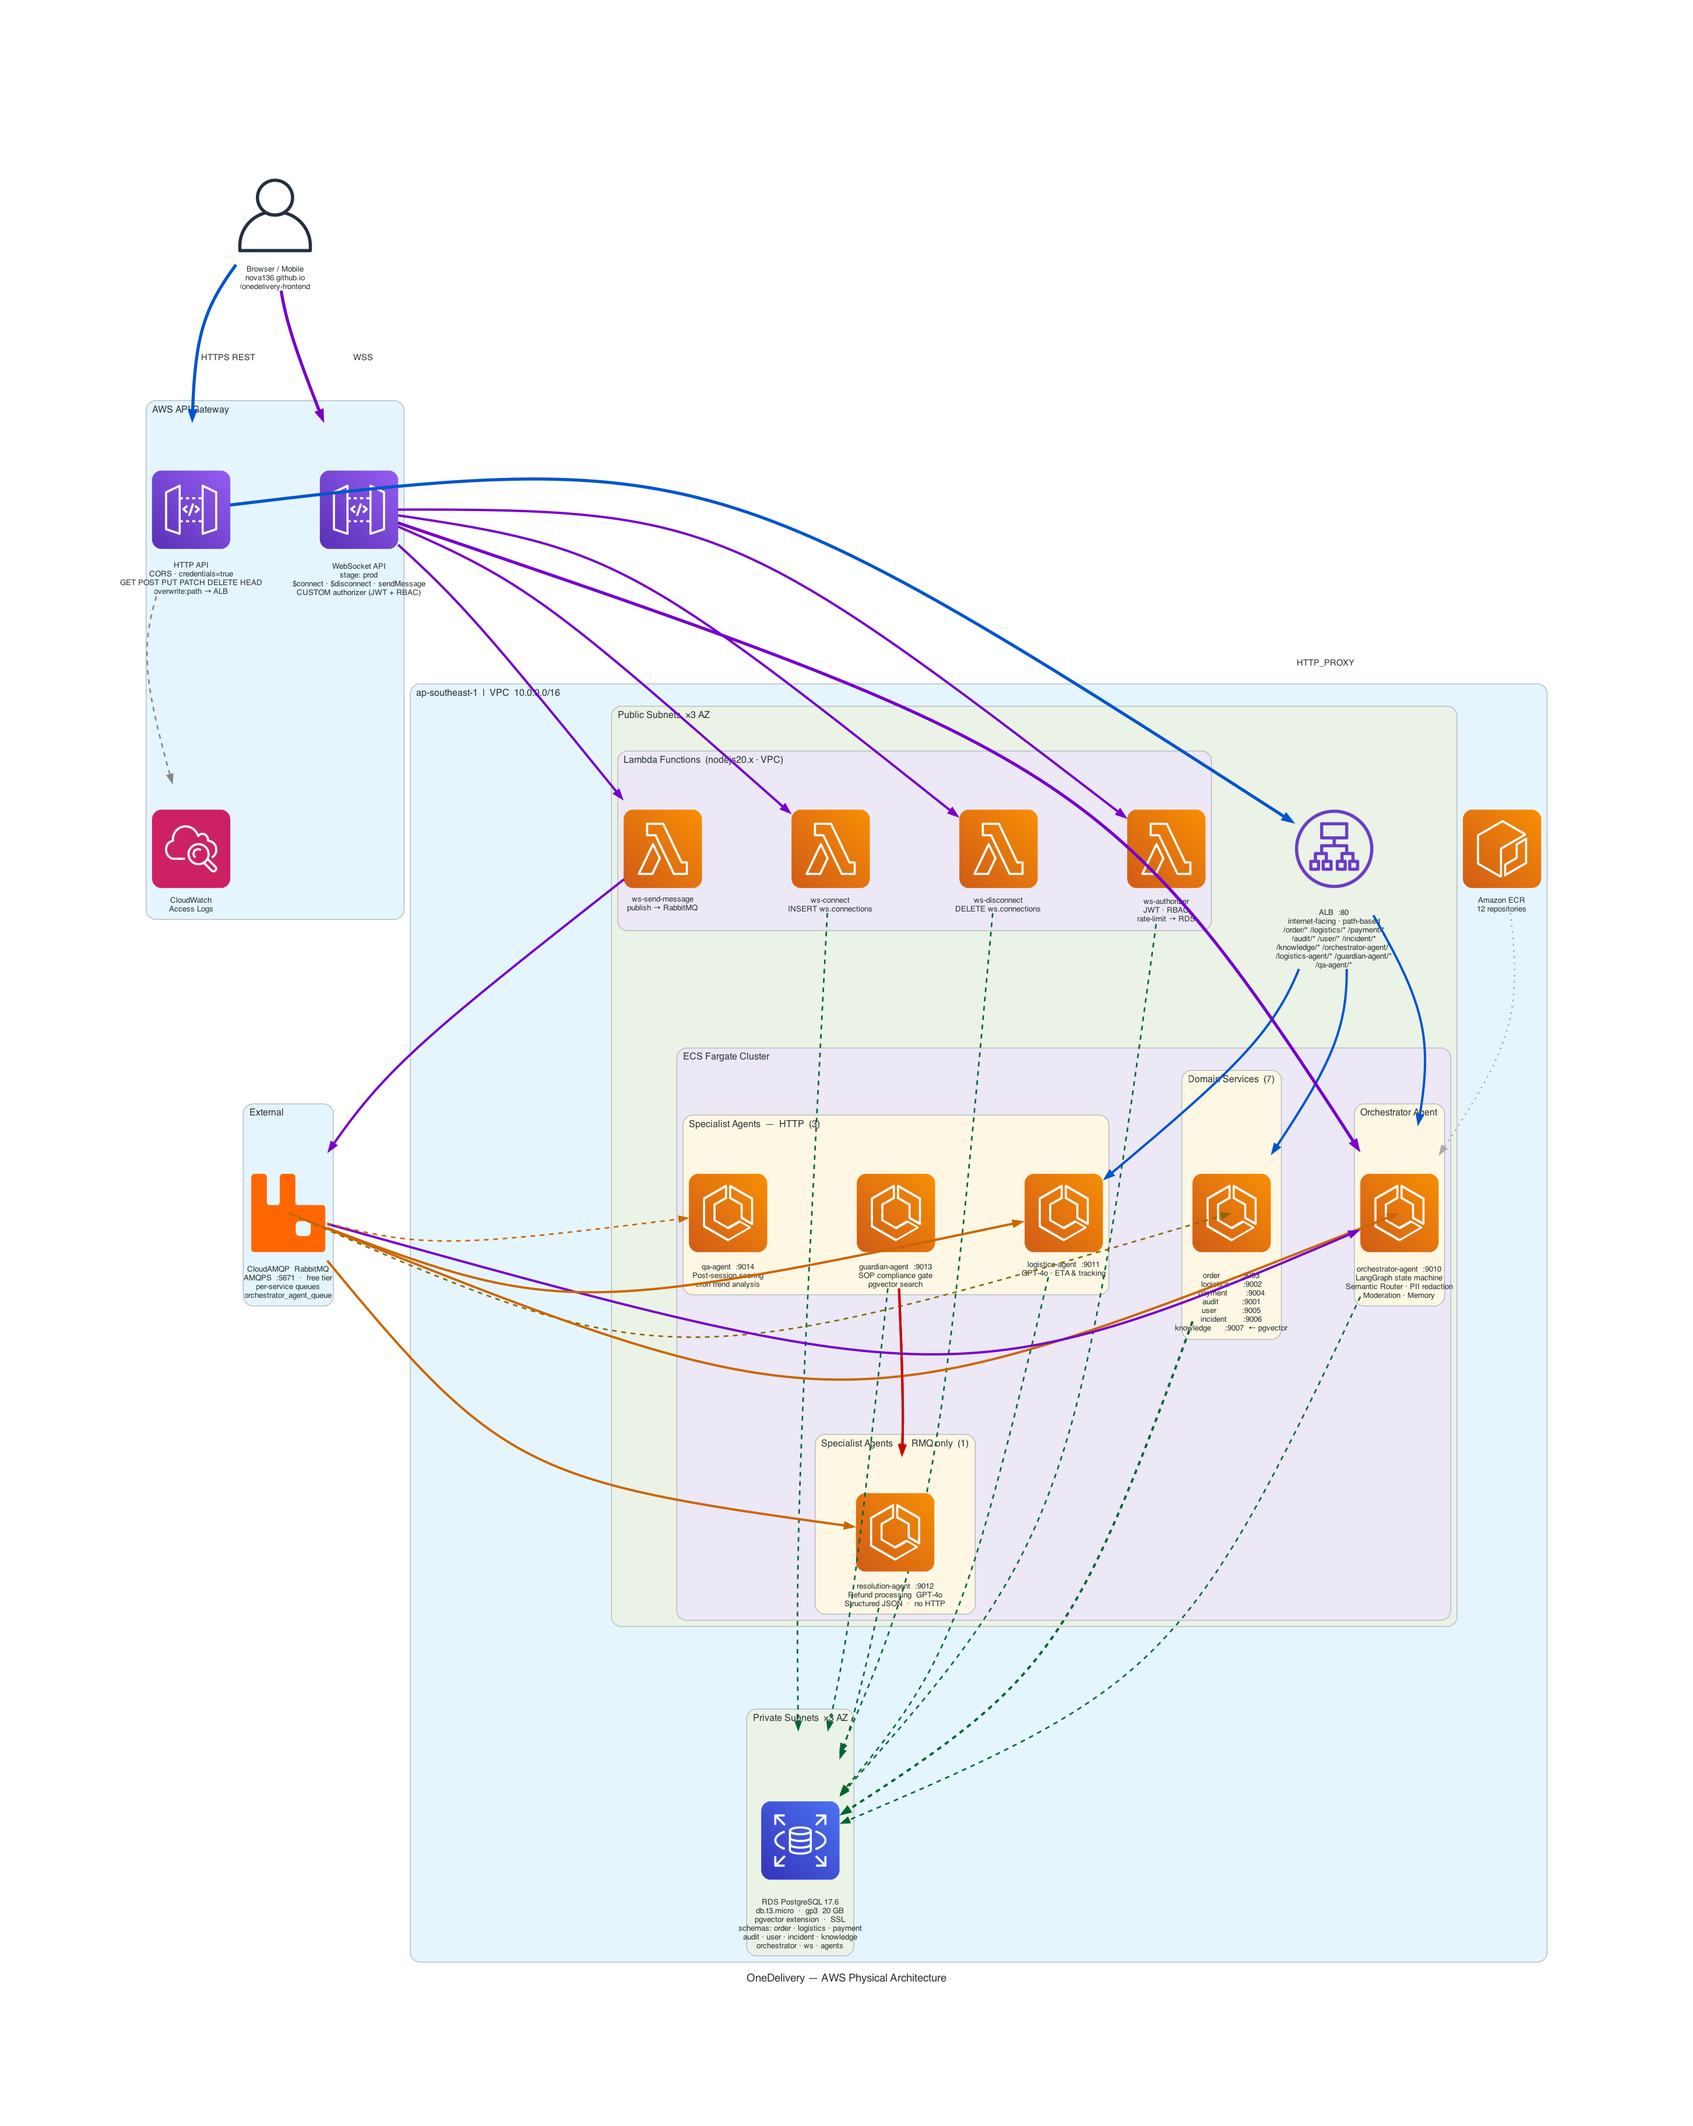
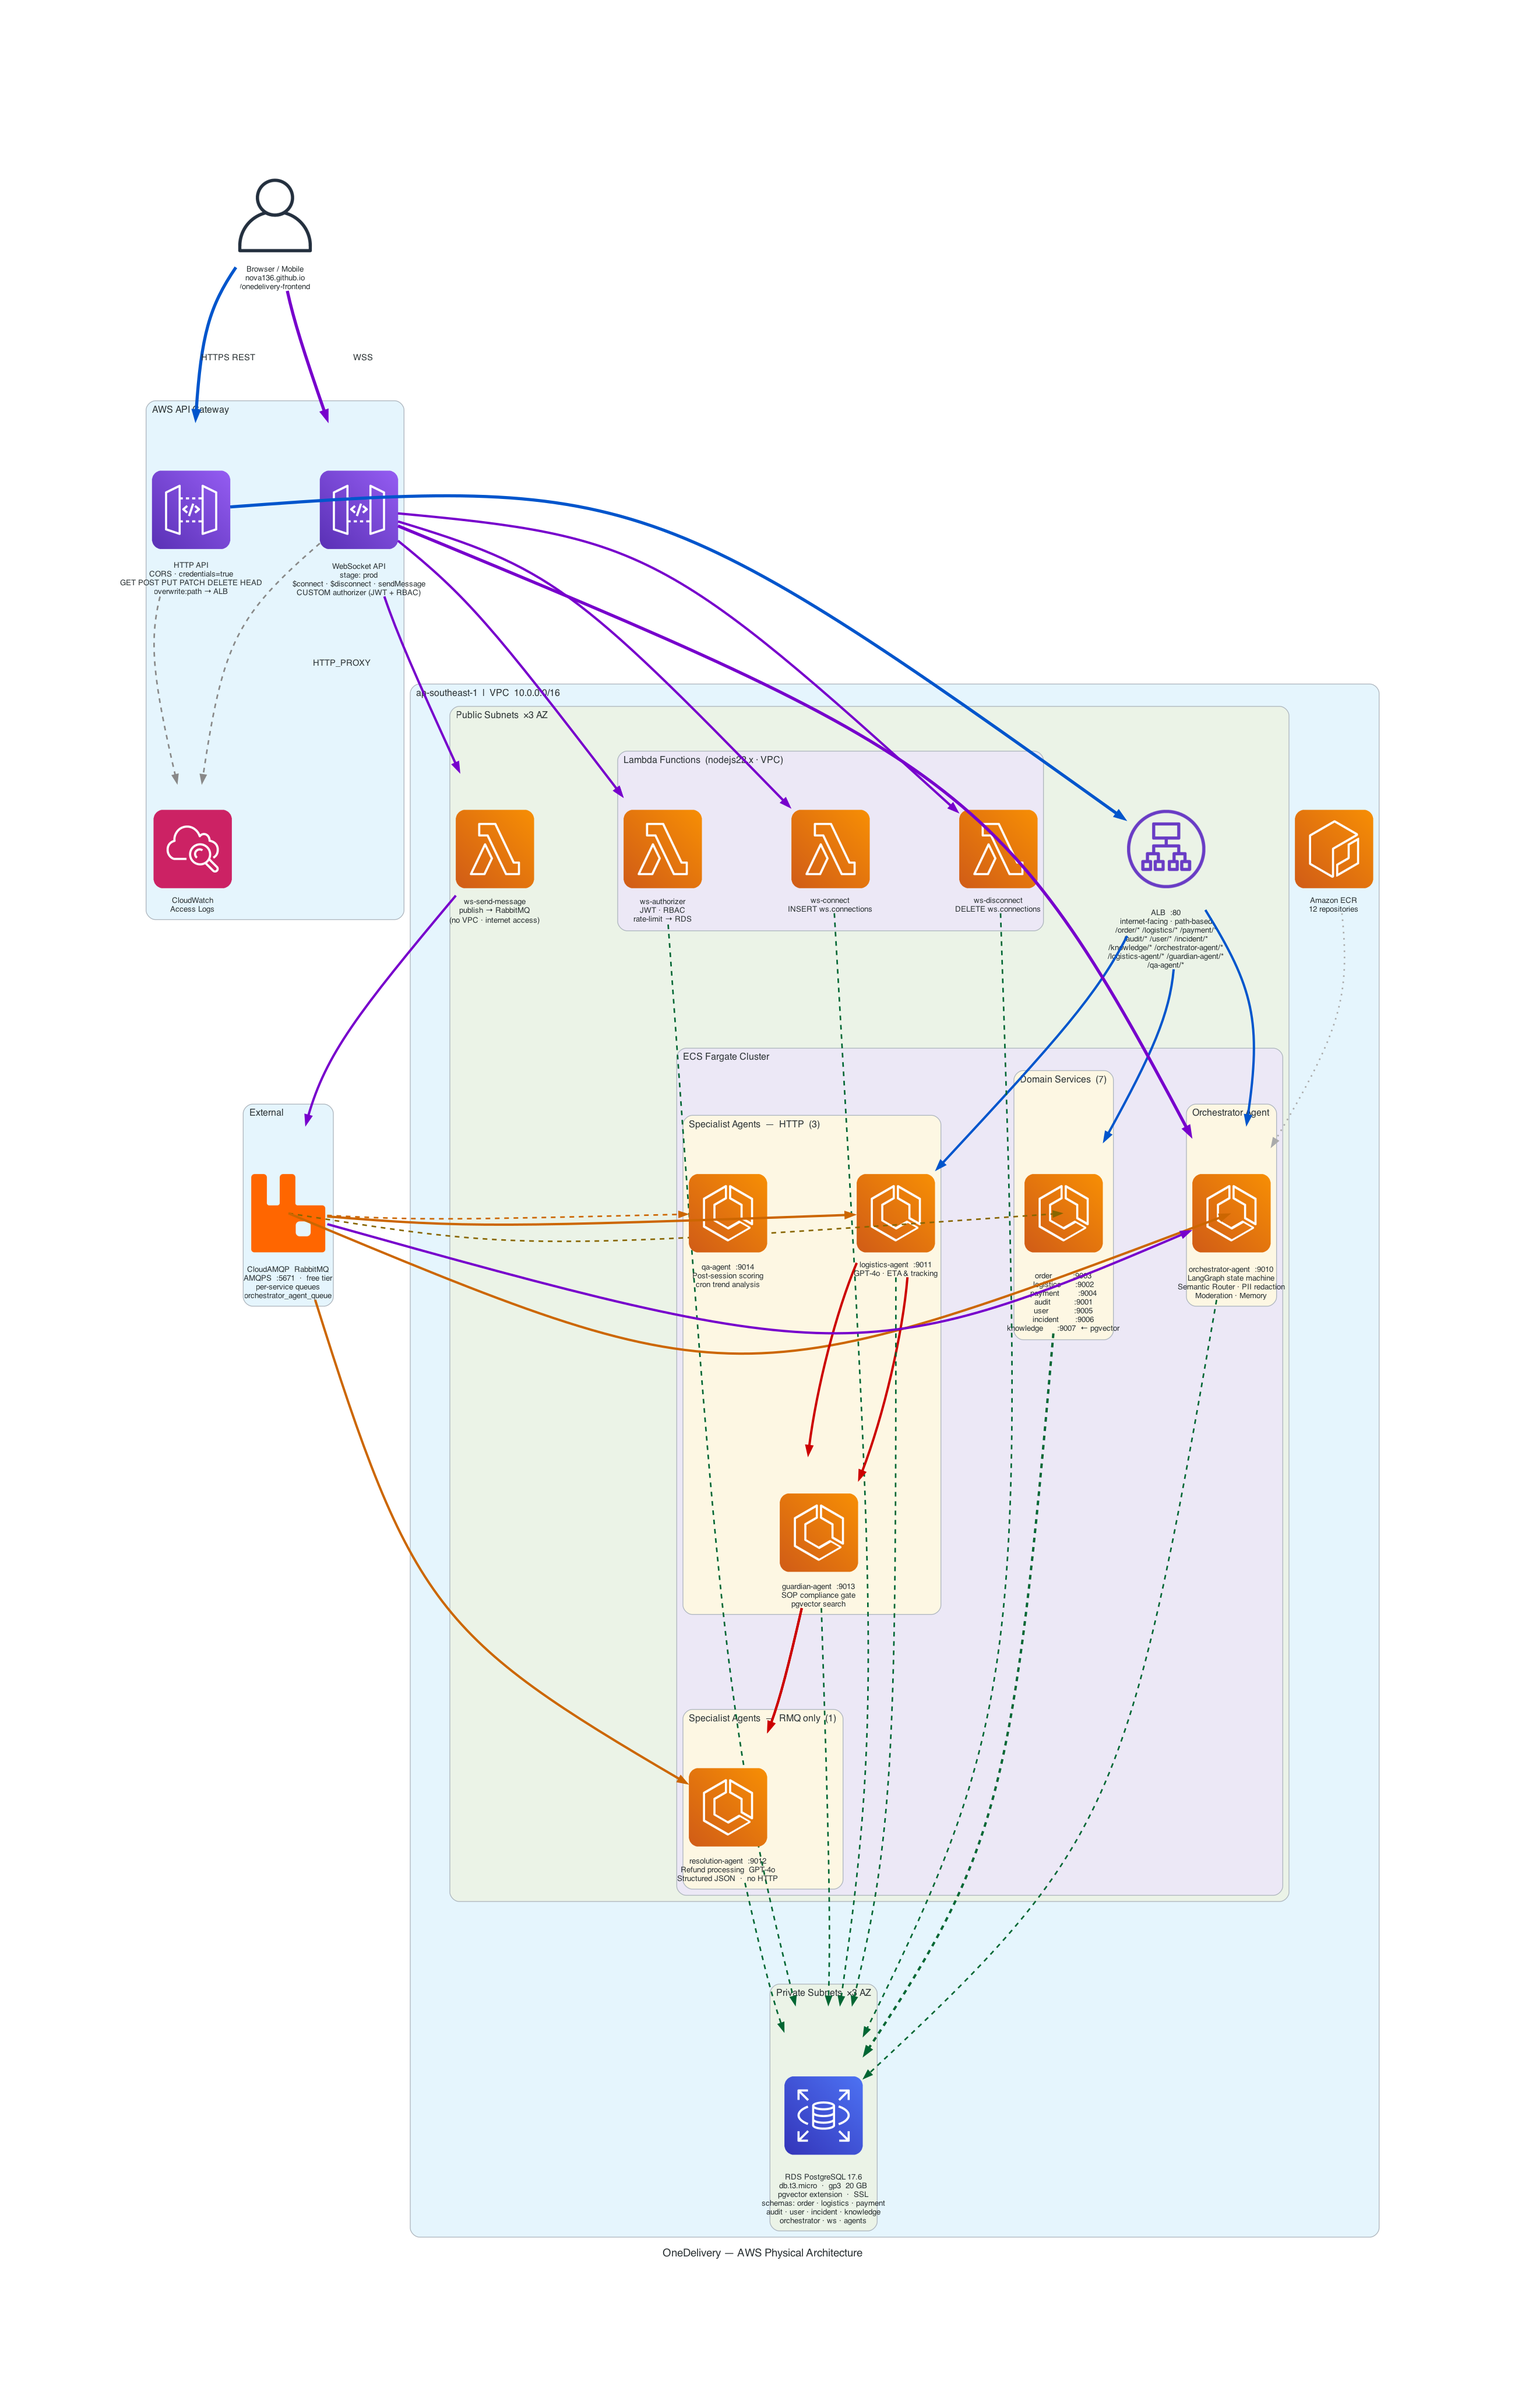
Update Architecture Diagrams. Based on updated terraform
architecture.py (Physical):
  1. Lambda cluster label says nodejs20.x → actual is nodejs22.x
  2. All 4 Lambdas shown in one VPC cluster → ws-send-message is intentionally outside the VPC (reaches CloudAMQP over internet)
  3. CloudWatch only connected to http_api → WebSocket API also now has a CloudWatch log group
  4. logi_agent → guardian connection missing — logistics agent also calls Route_To_Guardian for cancellations

  architecture_logical.py (Logical):
  1. logi_agent → guardian connection missing (same reason)

Changed region(s): [[0.0619, 0.0625, 0.9285, 0.9375], [0.619, 0.75, 0.65, 0.7812], [0.3405, 0.6875, 0.3714, 0.7188]]

diff --git a/infrastructure/architecture.py b/infrastructure/architecture.py
@@ -67,11 +67,12 @@ with Diagram(
                 "/qa-agent/*"
             )
 
-            with Cluster("Lambda Functions  (nodejs20.x · VPC)"):
+            with Cluster("Lambda Functions  (nodejs22.x · VPC)"):
                 lam_auth = Lambda("ws-authorizer\nJWT · RBAC\nrate-limit → RDS")
                 lam_conn = Lambda("ws-connect\nINSERT ws.connections")
                 lam_disc = Lambda("ws-disconnect\nDELETE ws.connections")
-                lam_send = Lambda("ws-send-message\npublish → RabbitMQ")
+
+            lam_send = Lambda("ws-send-message\npublish → RabbitMQ\n(no VPC · internet access)")
 
             with Cluster("ECS Fargate Cluster"):
 
@@ -157,9 +158,13 @@ with Diagram(
 
     # =========================================================================
     # ── ④ Guardian SOP gate  (red) ───────────────────────────────────────────
+    # Resolution agent: refund approval gate
+    # Logistics agent: cancellation approval gate
     # =========================================================================
     res   >> Edge(color="#CC0000", style="bold", penwidth="3") >> guard
     guard >> Edge(color="#CC0000", style="bold", penwidth="3") >> res
+    logi  >> Edge(color="#CC0000", style="bold", penwidth="3") >> guard
+    guard >> Edge(color="#CC0000", style="bold", penwidth="3") >> logi
 
     # =========================================================================
     # ── Domain service events → RabbitMQ  (brown dashed) ─────────────────────
@@ -182,4 +187,5 @@ with Diagram(
     # ── CloudWatch + ECR  (grey) ──────────────────────────────────────────────
     # =========================================================================
     http_api >> Edge(color="#888888", style="dashed", penwidth="2") >> cw
+    ws_api   >> Edge(color="#888888", style="dashed", penwidth="2") >> cw
     ecr      >> Edge(color="#AAAAAA", style="dotted", penwidth="2") >> orch

diff --git a/infrastructure/architecture_logical.py b/infrastructure/architecture_logical.py
@@ -14,7 +14,7 @@ graph_attr = {
     "fontsize": "14",
     "bgcolor": "white",
     "pad": "2.5",
-    "splines": "ortho",
+    "splines": "curved",
     "nodesep": "1.8",
     "ranksep": "2.4",
     "fontname": "Helvetica",
@@ -161,8 +161,10 @@ with Diagram(
     event_bus    >> Edge(color="#CC6600", style="dashed", penwidth="2") >> qa_agent
 
     # ── Guardian gate  (red) ──────────────────────────────────────────────────
-    res_agent >> Edge(color="#CC0000", style="bold", penwidth="3") >> guardian
-    guardian  >> Edge(color="#CC0000", style="bold", penwidth="3") >> res_agent
+    res_agent  >> Edge(color="#CC0000", style="bold", penwidth="3") >> guardian
+    guardian   >> Edge(color="#CC0000", style="bold", penwidth="3") >> res_agent
+    logi_agent >> Edge(color="#CC0000", style="bold", penwidth="3") >> guardian
+    guardian   >> Edge(color="#CC0000", style="bold", penwidth="3") >> logi_agent
 
     # ── Agents → Domain services  (teal dashed) ───────────────────────────────
     faq_agent  >> Edge(color="#008888", style="dashed", penwidth="2") >> domain
